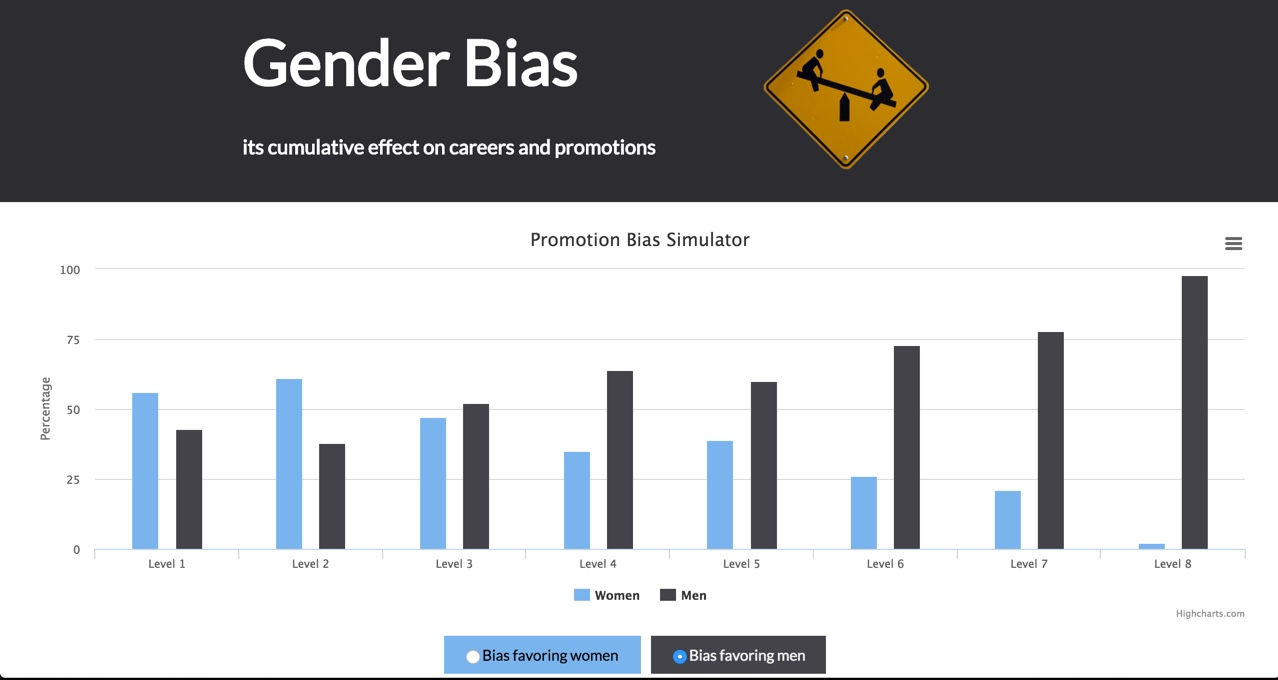
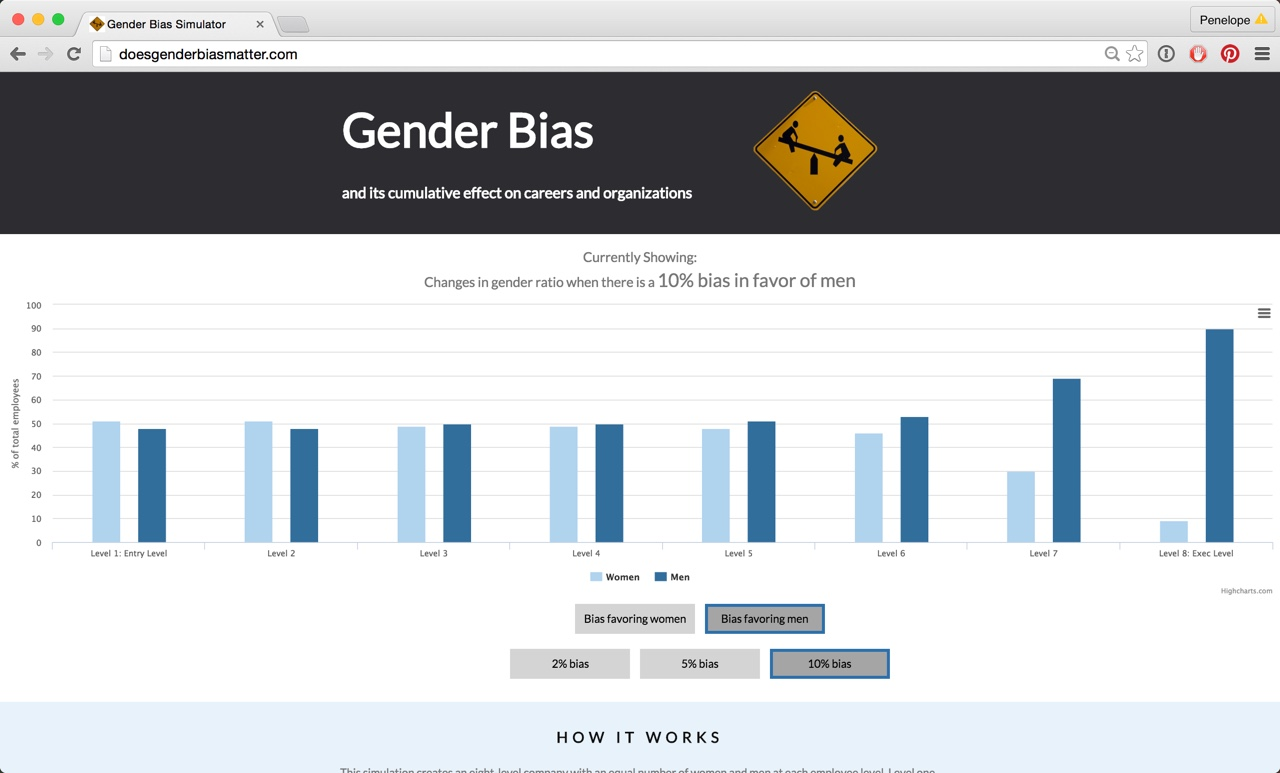
Updated bias image, skills info

diff --git a/index.html b/index.html
@@ -45,9 +45,8 @@
                             <p>Penelope Hill<br/>
                             </h2>
 						</header>
-                        <p class='my-header-2'>
-                          Python, Flask, Java, Android, SQLite, MySQL, Javascript,<br>
-                            Ruby, Jquery, HTML, CSS
+                        <p class='my-header-2'>Proficient: Python, Flask, Java, Junit, Android, MySQL, SQLite, Luigi, HTML, CSS</p>  
+                         <p class='my-header-2'>Familiar: Javascript, Jquery, Ruby, Postgres, Hadoop, Hive, Vertica, Redshift
                         </p>
 					</section>
 
@@ -60,6 +59,7 @@
                                 <h3>Gender Bias Simulator</h3>
                                 <p><strong>Stack:</strong> Python, Flask, jQuery, HTML, CSS</p>
                                 <p><a href="https://github.com/penelopy/bias_impact_project" class="git-link">Github</a></p>
+                                <p><a href="http://doesgenderbiasmatter.com">Demo</a></p>
                                 <br>
                                 <p>Created and open sourced a computer simulation on the impact of gender bias during job promotions.</p>
                             </article>
